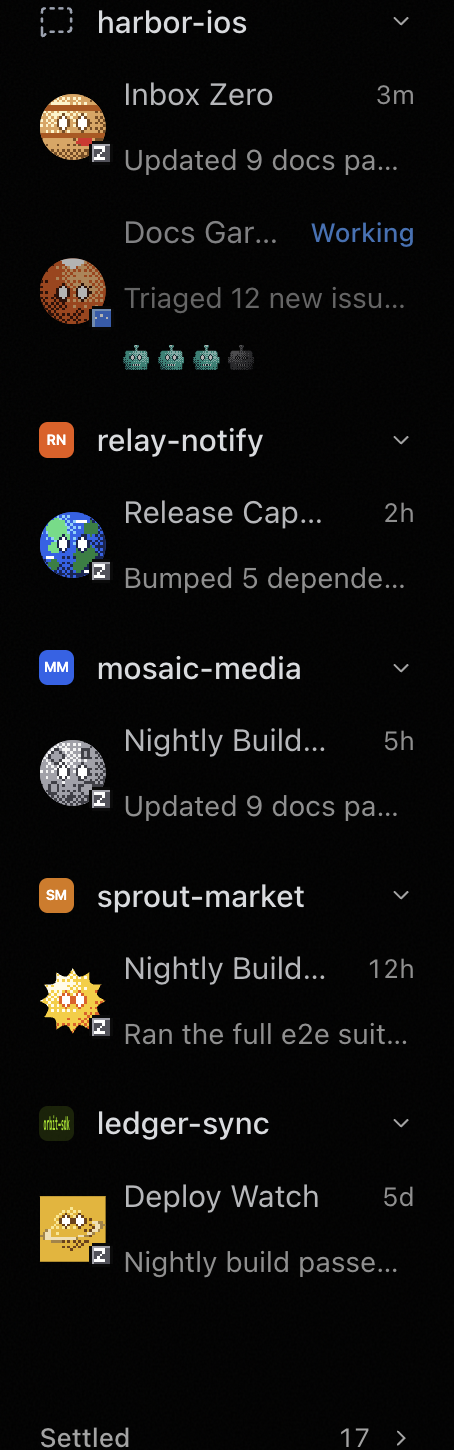
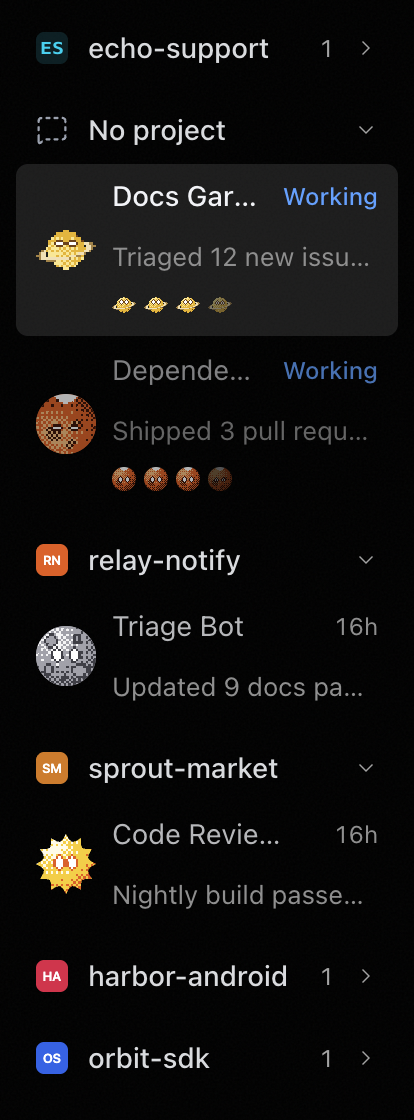
t3+ 0.23.1: README with Blobs in the bot styles

diff --git a/README.md b/README.md
@@ -51,11 +51,11 @@ Every thread becomes a little pixel-art bot with a face, its name and its latest
 
 Five styles for bots you haven't customized (Settings → t3+ → Bot style):
 
-| Classic | Sports | Space | Fruit |
-|:---:|:---:|:---:|:---:|
-| <img src="media/style-classic.png" width="180" alt="Classic bots"> | <img src="media/style-sports.png" width="180" alt="Sports bots"> | <img src="media/style-space.png" width="180" alt="Space bots"> | <img src="media/style-fruit.png" width="180" alt="Fruit bots"> |
+| Classic | Sports | Space | Fruit | Blobs |
+|:---:|:---:|:---:|:---:|:---:|
+| <img src="media/style-classic.png" width="150" alt="Classic bots"> | <img src="media/style-sports.png" width="150" alt="Sports bots"> | <img src="media/style-space.png" width="150" alt="Space bots"> | <img src="media/style-fruit.png" width="150" alt="Fruit bots"> | <img src="media/style-blobs.gif" width="150" alt="Blobs bots, gently animated"> |
 
-And **Blobs**: soft blobs in the bot's color with two capsule eyes, always gently alive. They glance around, blink and breathe, and show the mood.
+**Blobs** are soft blobs in the bot's color with two capsule eyes, always gently alive: they glance around, blink and breathe, and show the mood.
 
 ## Profiles
 
